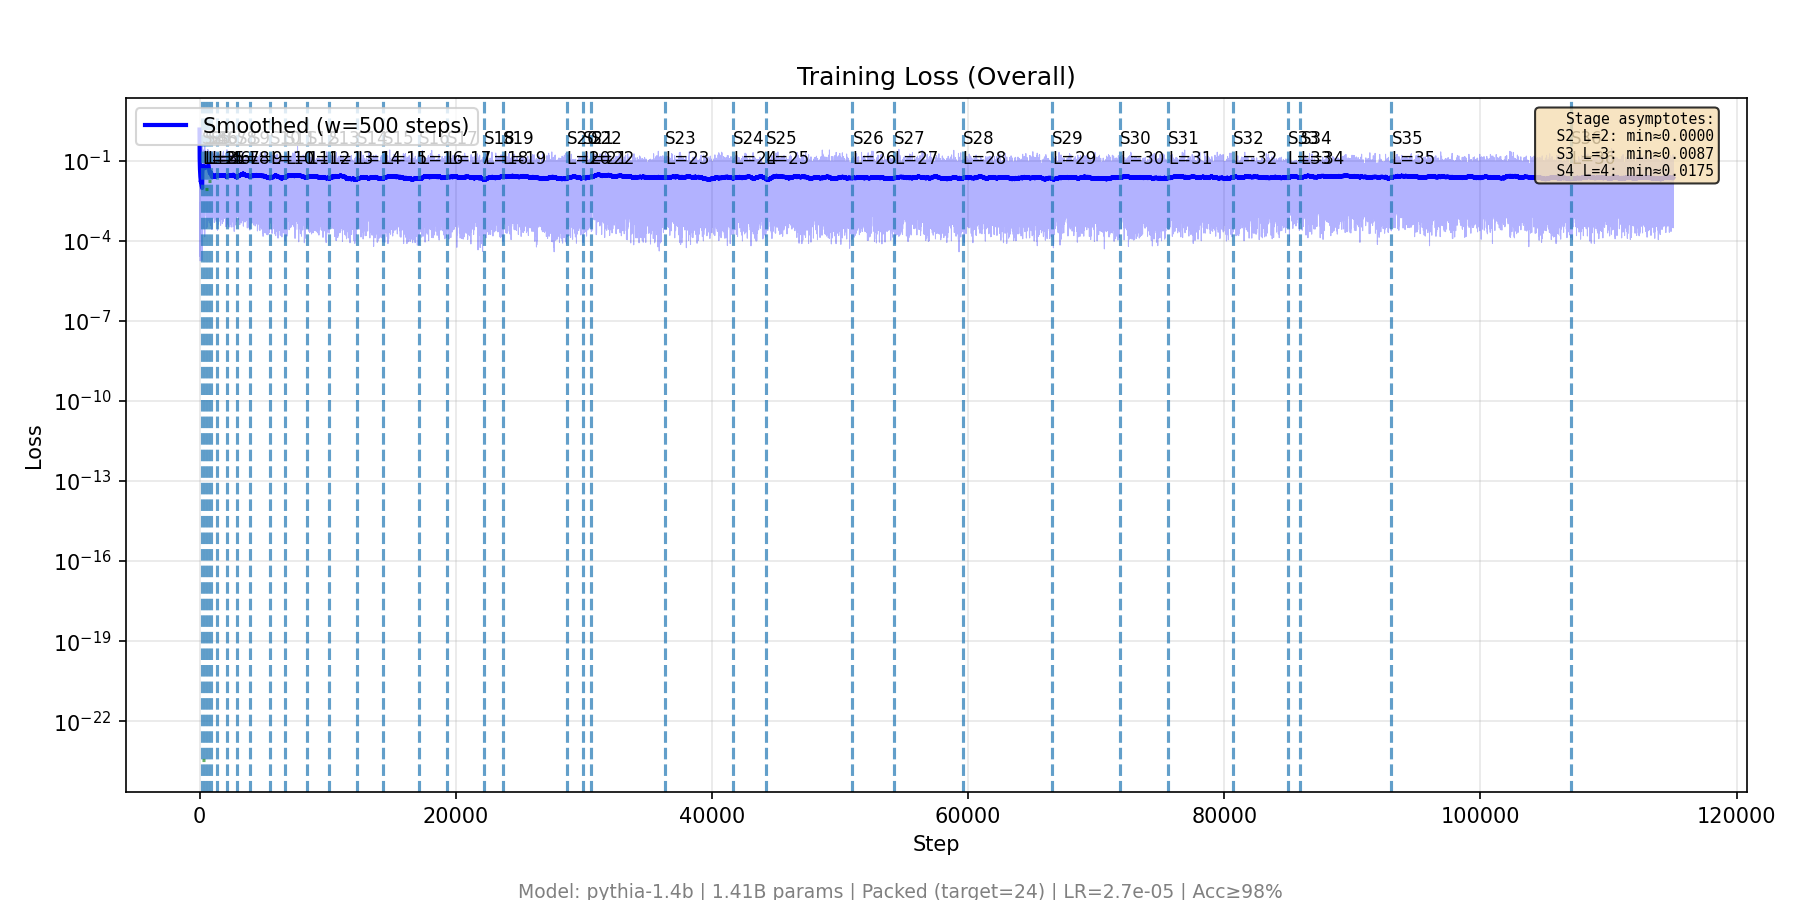
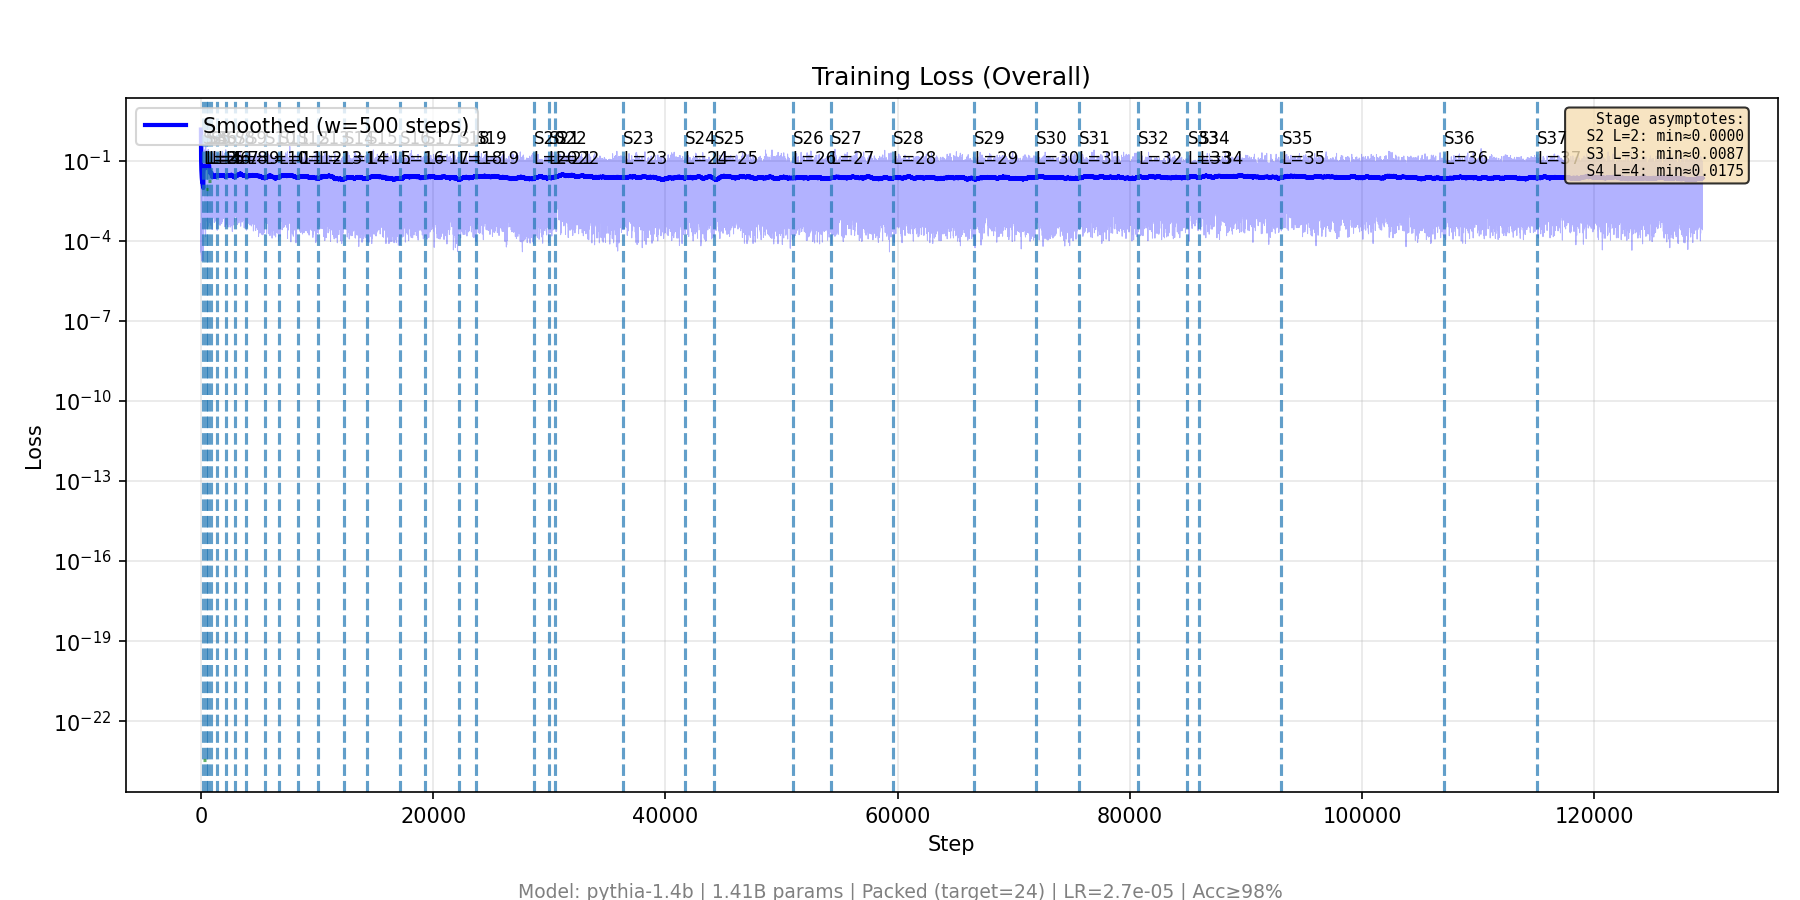
Update Experiment 2 progress (2026-10-18 22:57 UTC)

diff --git a/PROGRESS.md b/PROGRESS.md
@@ -3,7 +3,7 @@
 **Base commit:** `da7b19c` (`main`, plus `--revision` support in `nl/tuning_nl.py`)
 **Branch:** `jackierwzhang/exp2-pythia14b-revisions`
 **VM Instances:** `nl-exp2-spot-step1000`, `nl-exp2-spot-step10000`, `nl-exp2-spot-step100000`, `nl-exp2-spot-step143000` (4x `a3-highgpu-4g` Spot, 4x H100-80GB each)
-**Last updated:** 2026-10-18 22:40 UTC
+**Last updated:** 2026-10-18 22:57 UTC
 
 ## Shared Configuration
 
@@ -29,7 +29,7 @@
 | `step1000` | `step1000` | ~2.1B | `exp2_pythia14b_step1000` | Spot 4x H100 (us-east4-a) | Completed (PFLOPs cap) | 673000 | 28/96 (`L=28`) | 94.62% | 96.25% | 0.0295 | 500,310.1 | 1238.0 | 121.84h | 0.0h (Done) |
 | `step10000` | `step10000` | ~21.0B | `exp2_pythia14b_step10000` | Spot 4x H100 (us-east4-a) | Completed (PFLOPs cap) | 615500 | 28/96 (`L=28`) | 94.88% | 97.75% | 0.0298 | 500,428.3 | 1240.3 | 120.07h | 0.0h (Done) |
 | `step100000` | `step100000` | ~209.7B | `exp2_pythia14b_step100000` | Spot 4x H100 (us-east4-b) | Completed (PFLOPs cap) | 347000 | 58/96 (`L=58`) | 94.88% | 96.88% | 0.0260 | 500,114.3 | 1290.1 | 101.85h | 0.0h (Done) |
-| `step143000` | `step143000` | ~299.9B | `exp2_pythia14b_step143000` | Spot 4x H100 (us-east5-a) | Running | 128920 | 37/96 (`L=37`) | 97.12% | 98.25% | 0.0202 | 122,246.9 | 1299.4 | 24.94h | ~39.8h (stg rate, 38.5% L) / 74.9h (500k cap @ 5,042 PF/h) |
+| `step143000` | `step143000` | ~299.9B | `exp2_pythia14b_step143000` | Spot 4x H100 (us-east5-a) | Running | 130020 | 38/96 (`L=38`) | 96.25% | 98.12% | 0.0246 | 123,664.5 | 1292.0 | 25.23h | ~38.6h (stg rate, 39.6% L) / 75.1h (500k cap @ 5,014 PF/h) |
 
 ## Stage Evaluation Summary (`stage_eval_history.json`, every 8 stages)
 
